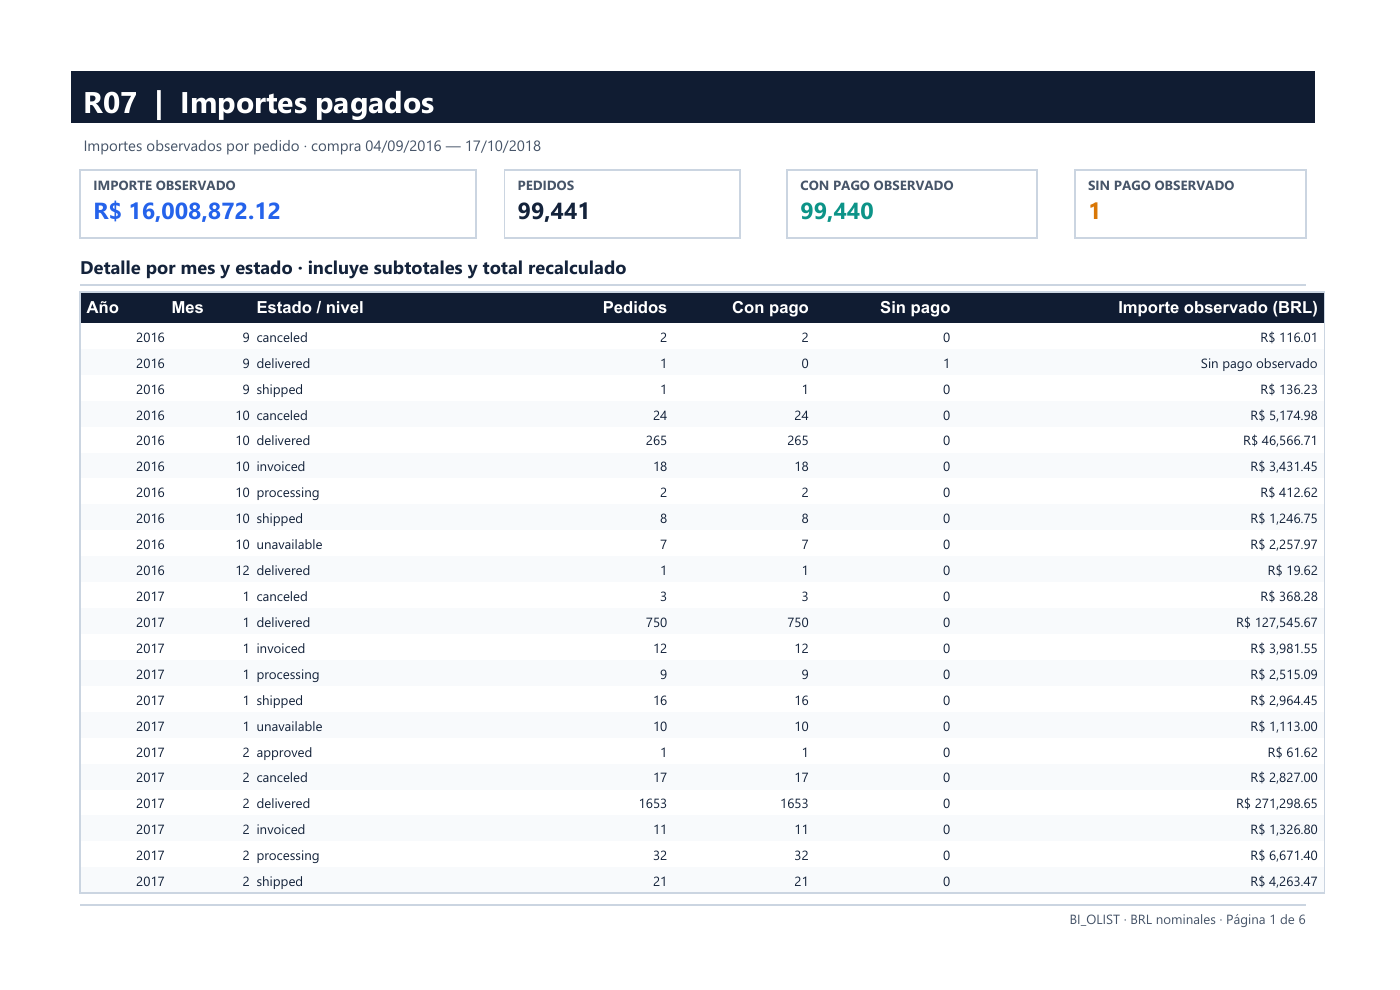
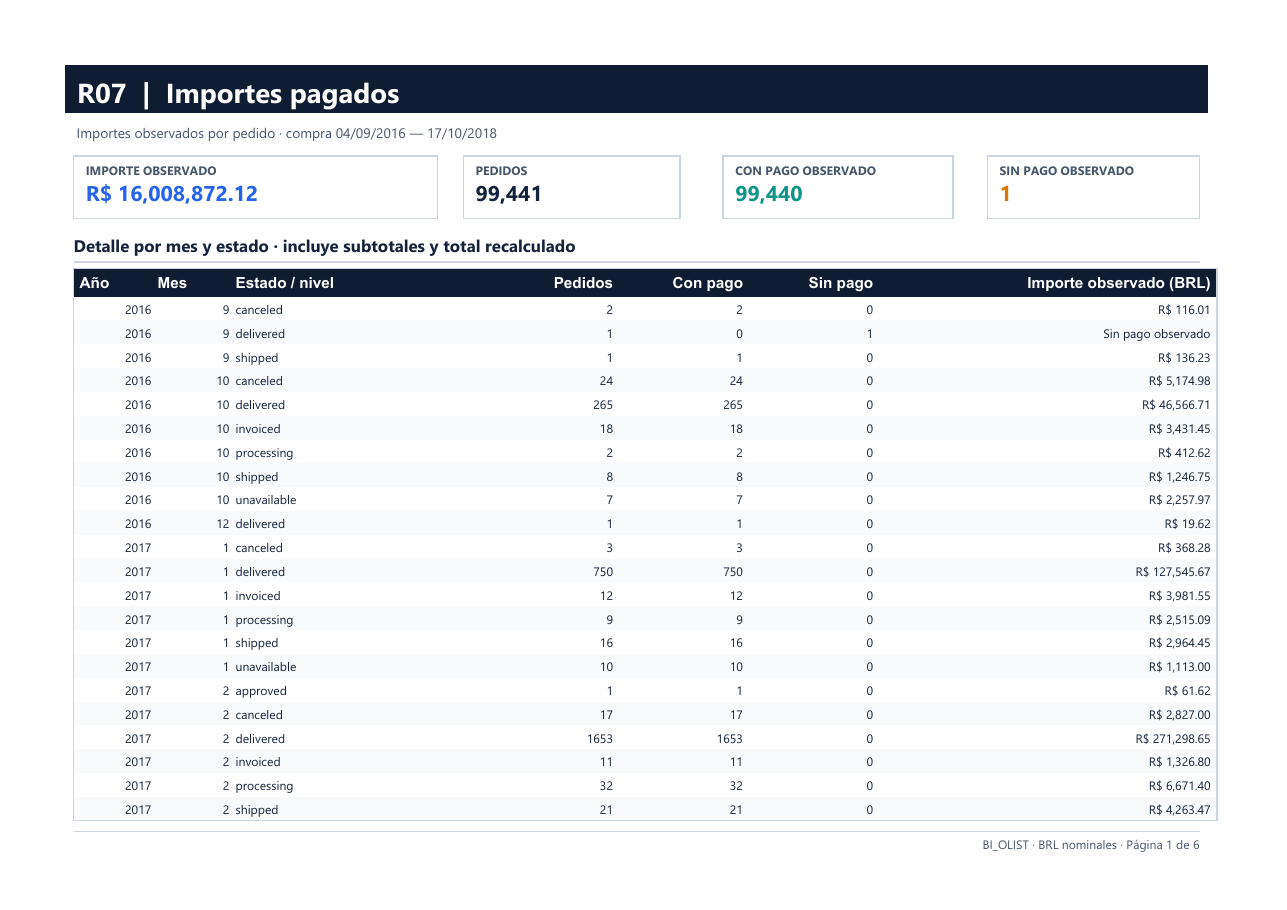
Documenta correcciones funcionales SSRS

diff --git a/reporting-services/validacion/RESULTADOS_M06_M07.md b/reporting-services/validacion/RESULTADOS_M06_M07.md
@@ -132,3 +132,66 @@ Los archivos de exportación se guardan en la carpeta local ignorada `validacion
 - El encabezado `SSRS-APP` de `Verificar-Entorno.ps1` informa la versión registrada de Windows; el portal es SQL Server 2022 Reporting Services. El servicio, catálogo y ejecuciones están comprobados independientemente.
[1 lines of base64/hex data omitted]
 - Los cinco pares de exportación de la tabla histórica son del corte anterior; los valores de este cierre son los de la tabla actual y del manifiesto local actualizado.
+
+## Correcciones funcionales focalizadas posteriores al PR #25 — 2026-11-27
+
+Esta ronda vuelve a ejecutar solo R01, R07, R09 y R10 en el SSRS local. No se reinstaló SSRS ni se volvió a publicar el conjunto completo. El commit de los RDL/SQL corregidos es `5f0d44c80587524160fd052990569a90a6c309a9`; sus cuatro SHA-256 coinciden con las definiciones recuperadas del catálogo después de publicarlas mediante la API soportada de SSRS (HTTP 200, cero advertencias).
+
+### R07 — selector y exportación corregidos
+
+La consulta de valores disponibles para EstadoPedido contiene «Todos» y los estados observados, sin `__DESCONOCIDO__` ni «Desconocido / NULL». `GetItemParameters` con `ForRendering=true` confirmó las opciones publicadas. Se regeneraron PDF y XLSX con el rango histórico completo y todos los estados. Revisé visualmente las seis páginas del PDF: no aparece el nivel «Desconocido / NULL» y la última página cierra con 99.441 pedidos, 99.440 con pago observado, 1 sin pago y R$ 16.008.872,12. El XLSX tiene 172 × 20 celdas y 969 valores numéricos.
+
+### R09 — barras de ventas comparativas
+
+El cambio de glifos verticales por imágenes de barra embebidas se verificó con dos exportaciones: el filtro previo de São Paulo, para conservar sus cifras históricas, y todos los estados/ciudades para evaluar barras de distintas longitudes. En la primera página del segundo PDF las barras horizontales se distinguen en los estados con venta baja, media y alta; inspeccioné también el último folio, que no presenta una página vacía ni una fila recortada. El PDF multestado tiene 144 páginas; no se inspeccionaron una por una. Su XLSX abre como OOXML y contiene 3.450 × 15 celdas, incluidos 27.196 números. El caso São Paulo conserva 6.381 pedidos, 6.123 entregados, R$ 752.425,64 en ventas, R$ 100.270,40 de flete, 95,93 % a tiempo, 8,64 días y nota 4,12.
+
+### R01 y R10 — tipos utilizables en Excel
+
+La comparación con las exportaciones previas confirmó el problema antes de aplicar la propuesta versionada `propuestas/r01-r10-formato-exportacion.patch`:
+
+- En R01, las ocho métricas de F20:F27 eran texto en el XLSX anterior (43 celdas no vacías, todas de tipo texto). Ahora son ocho valores numéricos con formato de moneda, conteo, porcentaje, días y nota; el XLSX corregido tiene 33 × 8 celdas. R01 no expone fechas como columnas de datos: el rango Desde/Hasta sigue siendo una etiqueta de filtro en el encabezado.
+- En R10, las 30 celdas de fechas que antes eran cadenas ahora son valores datetime de Excel con formato `dd/mm/yyyy hh:mm:ss`. El XLSX corregido contiene 60 valores numéricos y 30 fechas reales; la cantidad de lotes, conteos y métricas no cambió. El PDF sigue en dos páginas, ambas revisadas visualmente.
+
+Abrí los XLSX corregidos de R01 y R09 multestado en Excel. También comprobé el tipo OOXML y formato numérico/de fecha de los cuatro libros con `openpyxl`; se excluyeron datos de pedidos individuales.
+
+### Hashes de los RDL publicados
+
+| Informe | SHA-256 RDL |
+|---|---|
[4 lines of base64/hex data omitted]
+
+### Exportaciones corregidas
+
+Los binarios quedan en la carpeta local ignorada `validacion/salidas/correcciones-2026-11-27/`; solo las imágenes de páginas agregadas a `evidencias/renderizados-2026-11-27/` se versionan.
+
+| Informe / filtro | Archivo | Bytes | SHA-256 |
+|---|---|---:|---|
[10 lines of base64/hex data omitted]
+
+### Vistas corregidas
+
+| Informe | Evidencia |
+|---|---|
+| R01 | ![R01, primera página del PDF corregido](../evidencias/renderizados-2026-11-27/R01-SSRS-1.png) |
+| R07 | ![R07, página 1 del PDF corregido](../evidencias/renderizados-2026-11-27/R07-SSRS-1.png) · [página 6 con el total](../evidencias/renderizados-2026-11-27/R07-SSRS-6.png) |
+| R09 | ![R09, comparación multestado de barras en el PDF corregido](../evidencias/renderizados-2026-11-27/R09-SSRS-1.png) |
+| R10 | ![R10, primera página del PDF corregido](../evidencias/renderizados-2026-11-27/R10-SSRS-1.png) · [segunda página](../evidencias/renderizados-2026-11-27/R10-SSRS-2.png) |
+
+### Comprobaciones y límites
+
+- `python scripts/validar_base.py`: PASS. `pwsh -NoProfile -ExecutionPolicy Bypass -File reporting-services/scripts/Validar-Scripts.ps1`: PASS (ocho scripts PowerShell parseados). `git diff --check`: PASS antes de actualizar este apéndice.
+- Los cuatro RDL parsean como XML y sus 16 consultas embebidas (R01: 4, R07: 3, R09: 4, R10: 5) coinciden exactamente con los SQL versionados.
+- `R02` y `R04` no se modificaron ni exportaron en esta ronda; sus correcciones se revisan primero en el PR #26 de Ángel. No se modificaron ni probaron PBIX, conexión Live, SSAS o medidas DAX.
+- El detalle de pedidos de R08 sigue fuera de Git. No se creó ningún issue ni validador. La apertura visual de las exportaciones de PRE_G0_Humo (`PRE-G0-07`) y la certificación cruzada de Nivel 2 siguen fuera de esta ronda.
